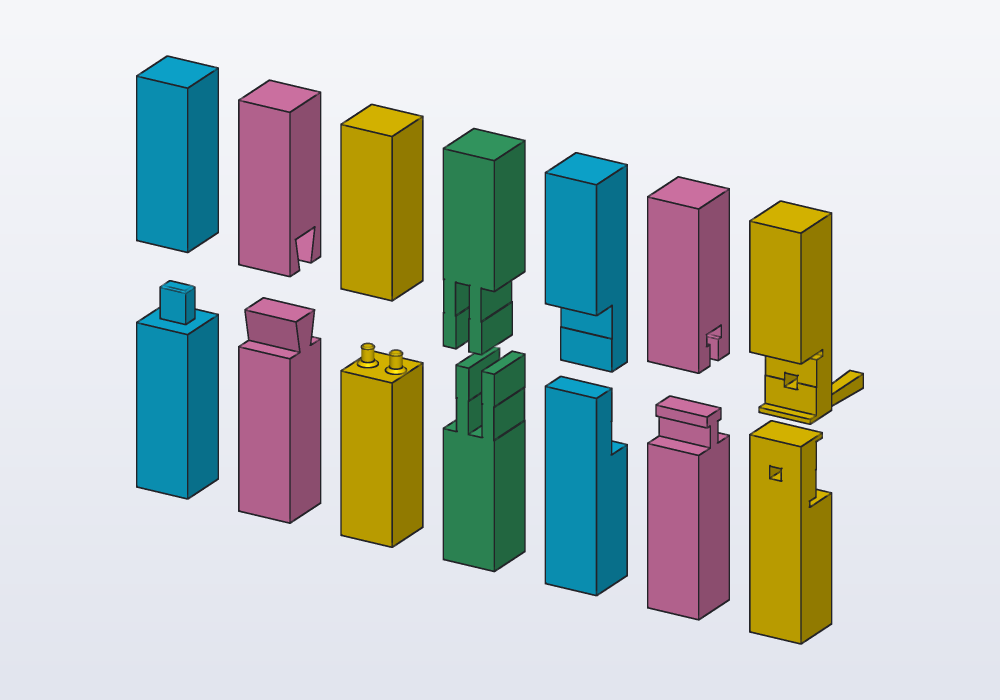
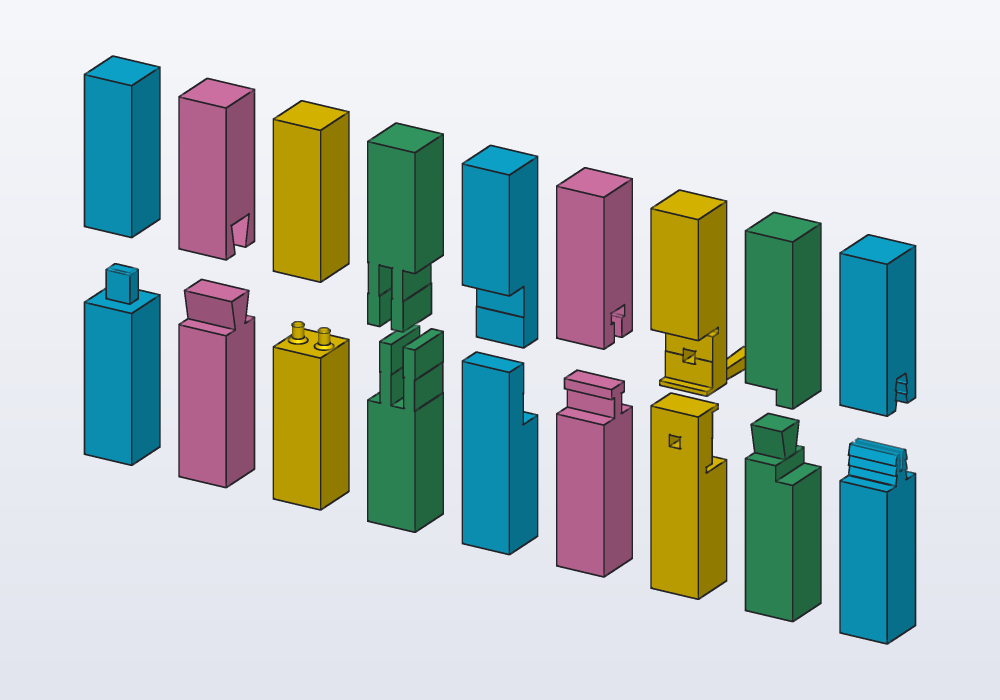
Joints: koshikake, a dovetail over a seat that carries the load, and barbed, a split tenon with barbs driven in for good

diff --git a/docs/cheatsheet.html b/docs/cheatsheet.html
@@ -455,7 +455,7 @@ dd { margin: 0 0 0 12px; color: #4a5a54; }
 </dl></section>
 <section><h2>import joints;</h2><dl>
 <dt>struct Joint(a: Solid, b: Solid, loose: Solid[])</dt><dd>The two pieces of a solid cut along a plane with a joint between them, and the loose parts that lock it (a wedge), if any.</dd>
-<dt>splitJoint(body: Solid, at: Plane, kind: string = "tenon", size: Length = …, length: Length = …, clearance: Length = …, turn: Angle = …, count: int = 2) → Joint</dt><dd>`body` cut along the plane `at` into two pieces that fit together with a joint, `clearance` apart where they meet (0.2 mm suits most FDM printers: see the fits guide). The joint is centred on the cut (the middle of the section), laid along the section's longer side; `turn` turns it further about the plane's normal; `size` sets its scale (by default the square root of the section's area: the width of a square beam) and `length` how far it reaches across the plane (0.6 of the size). `count` is the number of fingers or pins (pins thinner the more there are).  - "tenon": a tenon on a, its mortise in b (hozo); - "dovetail": a tail across the piece, sliding in sideways (ari); - "pins": round pins on a, holes in b; - "fingers": a box joint, fingers of a and b in turn; - "lap": a half lap (ai-gaki), each piece keeping half the thickness; - "kama": a gooseneck, dropping in from the side (kama tsugi); - "kanawa": a half lap with hooks at both ends, locked by a wedge driven through the middle (kanawa tsugi): the wedge is in `loose`.</dd>
+<dt>splitJoint(body: Solid, at: Plane, kind: string = "tenon", size: Length = …, length: Length = …, clearance: Length = …, turn: Angle = …, count: int = 2) → Joint</dt><dd>`body` cut along the plane `at` into two pieces that fit together with a joint, `clearance` apart where they meet (0.2 mm suits most FDM printers: see the fits guide). The joint is centred on the cut (the middle of the section), laid along the section's longer side; `turn` turns it further about the plane's normal; `size` sets its scale (by default the square root of the section's area: the width of a square beam) and `length` how far it reaches across the plane (0.6 of the size). `count` is the number of fingers or pins (pins thinner the more there are).  - "tenon": a tenon on a, its mortise in b (hozo); - "dovetail": a tail across the piece, sliding in sideways (ari); - "pins": round pins on a, holes in b; - "fingers": a box joint, fingers of a and b in turn; - "lap": a half lap (ai-gaki), each piece keeping half the thickness; - "kama": a gooseneck, dropping in from the side (kama tsugi); - "kanawa": a half lap with hooks at both ends, locked by a wedge driven through the middle (kanawa tsugi): the wedge is in `loose`; - "koshikake": a dovetail over a seat that the other piece rests on (koshikake ari tsugi), which carries a load without bending open; - "barbed": a tenon with barbs, split down its middle, driven in: it goes in and does not come out.</dd>
 <dt>struct FlatSplit(a: Solid, b: Solid, keys: Solid[], aPrint: Solid, bPrint: Solid, print: Solid[])</dt><dd>The two halves of a solid cut flat along a plane, each to print lying on its cut face, and the flat keys that join them.</dd>
 <dt>splitFlat(body: Solid, at: Plane, keys: int = 2, kind: string = "bowtie", size: Length = …, depth: Length = …, clearance: Length = …, wall: Length = …) → FlatSplit</dt><dd>`body` cut flat along the plane `at` into two halves, each printed lying on its cut face (nothing stands out of it, so it lies flat on the bed), joined by `keys` flat keys: a pocket in each half's cut face, half the key in each. The keys print lying flat too, and fit their pockets `clearance` apart; glue them in, or leave them dry to take apart.  The keys go where the cut has room for them, at least `wall` from its edges, as far apart as they can be. "bowtie" keys (butterflies, chigiri) keep the halves from sliding and from turning, even one alone; "disc" keys are round, two at least. `size` is a key's length (from the section's size unless given), `depth` how deep it goes into each half. The pockets open with a 0.4 mm chamfer: the first layers spread a little on the bed, and the pocket's mouth is on the bed.</dd>
 <dt>joinParts(a: Solid, b: Solid, at: Plane, kind: string = "tenon", size: Length = …, length: Length = …, clearance: Length = …, turn: Angle = …, count: int = 2) → Joint</dt><dd>Two separate parts joined where one meets the other: `b` ends on the plane `at` (a face of `a`, its normal pointing into `b`), and the joint goes from `b` into `a`: a shelf into an upright, a rail into a post. The joint is centred on `b`'s end and sized by it, as splitJoint does; what reaches past `a`'s far side stops flush with it (a through tenon). Kinds: "tenon", "dovetail" (a sliding dovetail, its housing running out of `a` the way it slides in), "pins", "fingers" (a corner of a box), "lap", "kama" (its housing too runs out of `a`). Gives the two parts changed: `.a` with the hollows, `.b` with what fits in them.</dd>

diff --git a/docs/LANGUAGE.md b/docs/LANGUAGE.md
@@ -180,7 +180,7 @@ This page lists everything in brief; the [guides by topic](GUIDES.md) explain ea
   - face properties: `center`, `normal`, `area`.
   - selectors combine: `edges.parallel(Z) - edges.of(faces.top)`, `faces.top + faces.bottom`, `a & b` (in both).
 - **Built-in libraries** (`import gears;` or `import std.gears;`, selective imports work too):
-  - `joints`: `splitJoint(body, plane, kind: "tenon" | "dovetail" | "pins" | "fingers" | "lap" | "kama" | "kanawa", clearance: 0.2.mm, size:, length:, turn:, count:)` cuts a solid along a plane into two pieces that lock together without screws, as joiners join timber: a tenon, a dovetail sliding in sideways, round pins, a finger joint, a half lap, a gooseneck (kama tsugi), a half lap with hooks locked by a wedge (kanawa tsugi); it gives a `Joint` with `.a` (behind the plane), `.b` (in front of it) and `.loose` (the wedge), the hollows `clearance` larger; the joint sits in the middle of the cut, sized by the square root of the section's area unless `size:` says; `jointKinds` lists the kinds. For a part longer than the printer's bed. `splitFlat(body, plane, keys: 2, kind: "bowtie" | "disc", size:, depth:, clearance: 0.15.mm, wall: 1.6.mm)` cuts it into two halves with flat faces, each to print lying on its cut face, joined by flat keys (butterflies, chigiri) in pockets cut in both faces, placed where the cut has room, as far apart as they can be: a `FlatSplit` with `.a`, `.b`, `.keys` (in place), and laid for printing `.aPrint`, `.bPrint` (on their cut faces, on z = 0) and `.print` (the keys flat in a row). `joinParts(a, b, plane, kind:)` joins two separate parts where `b` ends on a face of `a` (the plane, its normal into `b`): the same joints, from `b` into `a`, sized by `b`'s end, a tenon longer than `a` is thick flush on the far side; joints lie along the cut's longer side unless `turn:` says. `profile.spots(n, margin:)` gives the points it uses: up to n inside a profile in any plane, at least margin from its edges, far apart.
+  - `joints`: `splitJoint(body, plane, kind: "tenon" | "dovetail" | "pins" | "fingers" | "lap" | "kama" | "kanawa" | "koshikake" | "barbed", clearance: 0.2.mm, size:, length:, turn:, count:)` cuts a solid along a plane into two pieces that lock together without screws, as joiners join timber: a tenon, a dovetail sliding in sideways, round pins, a finger joint, a half lap, a gooseneck (kama tsugi), a half lap with hooks locked by a wedge (kanawa tsugi), a dovetail over a seat (koshikake ari tsugi), a barbed tenon split down its middle, driven in for good; it gives a `Joint` with `.a` (behind the plane), `.b` (in front of it) and `.loose` (the wedge), the hollows `clearance` larger; the joint sits in the middle of the cut, sized by the square root of the section's area unless `size:` says; `jointKinds` lists the kinds. For a part longer than the printer's bed. `splitFlat(body, plane, keys: 2, kind: "bowtie" | "disc", size:, depth:, clearance: 0.15.mm, wall: 1.6.mm)` cuts it into two halves with flat faces, each to print lying on its cut face, joined by flat keys (butterflies, chigiri) in pockets cut in both faces, placed where the cut has room, as far apart as they can be: a `FlatSplit` with `.a`, `.b`, `.keys` (in place), and laid for printing `.aPrint`, `.bPrint` (on their cut faces, on z = 0) and `.print` (the keys flat in a row). `joinParts(a, b, plane, kind:)` joins two separate parts where `b` ends on a face of `a` (the plane, its normal into `b`): the same joints, from `b` into `a`, sized by `b`'s end, a tenon longer than `a` is thick flush on the far side; joints lie along the cut's longer side unless `turn:` says. `profile.spots(n, margin:)` gives the points it uses: up to n inside a profile in any plane, at least margin from its edges, far apart.
   - `molds`: `mold(part, plane, wall: 10.mm, keys: 4, sprue: 6.mm, vents: 2, seal: 0.8.mm, clearance: 0.15.mm, pry: true)` a two-part mold to cast the part in (silicone, resin, plaster): a block round it cut along the parting plane (where the part is widest), the part hollow inside, cone keys on one half's parting face and sockets in the other, a seal ridge round the cavity and its groove, a pour hole with a funnel and vents up through the half in front of the plane, notches on two sides to pry it open; a `Mold` with `.a`, `.b` and, laid on their outer faces with the parting face up, `.aPrint`, `.bPrint`.
   - `flex`: `kerf(body, zone, width: 0.8.mm, bridge: 2.mm, pitch: 2.5.mm, length:, along:)` makes the body bend inside the zone (any solid): rows of slots through its thinnest way, each row shifted half a slot, running across the body's length (or `along:` X, Y or Z), so a plate bends end to end and a tube bows.
   - `hardware`: `Screw` sizes `M2`, `M2_5`, `M3`, `M4`, `M5`, `M6`, `M8`, `M10`, `M12`, unified inch `UNC4_40`, `UNC6_32`, `UNC8_32`, `UNC10_24`, `UNC1_4_20` (cameras and tripods), and self-tapping screws for plastic `ST2_2`, `ST2_9`, `ST3_5`, `ST4_2` (their `tap` is the hole they cut their thread in), with `d`, `pitch`, `tap`, `clearance`, `head`, `headHeight`, `key`, `nut`, `nutHeight`, `washer`, `insert`, `insertDepth`; `screw(M3, 20.mm, threaded: false, head: "socket" | "button" | "flat" | "hex" | "pan")` (ISO 4762, 7380, 10642, 4017, 7049; underside of the head on z = 0, a flat head's top), `headOf(M3, "button")` its `d`, `h`, `key`, `nut(M3, threaded: false)`, `washer(M3)`, `hexPrism(acrossFlats, h)`, `squareNut(M3)` (DIN 562, `squareNutSize`, `squareNutHeight`); tools to subtract, top on z = 0 going down: `hole(M3, depth, "clearance" | "tap" | "insert" | "counterbore" | "countersink" | "ribs", head: "socket", chamfer:)` (a counterbore sized for that head; `chamfer:` widens the mouth at 45°, 0.5 mm for ribs unless given; `"ribs"` a hole the screw passes with three ribs along it, 120° apart and one towards -Y, the bottom one on a wall, that the screw cuts its thread into), `nutTrap(M3, depth)`, `squareNutSlot(M3, reach, clearance: 0.2.mm)` (centred on the axis, its middle on z = 0, open towards +X `reach` long, for the nut to slide in from the side); aluminium extrusions of the 20 and 30 series (2020, 3030, B-type slot, typical sizes): `extrusion(20, length)` (standing along Z, centred: a reference part), `extrusionSeries(20)` its sizes (`size`, `slot`, `lip`, `cavity`, `depth`, `bore`, `screw`), `tNut(20, length: 10.mm)` (a T-nut as it sits in a slot facing +Z, the face on z = 0, a tap hole for M5 or M6) and `slotKey(20, length)` (a key under a printed part, down from z = 0 into a slot, to keep it square to the extrusion).

diff --git a/docs/CHEATSHEET.md b/docs/CHEATSHEET.md
@@ -449,7 +449,7 @@ s is a Solid, p a Profile, f a Frame; every value is immutable: operations give 
 ## Library: import joints;
 
 - `struct Joint(a: Solid, b: Solid, loose: Solid[])` — The two pieces of a solid cut along a plane with a joint between them, and the loose parts that lock it (a wedge), if any.
-- `splitJoint(body: Solid, at: Plane, kind: string = "tenon", size: Length = …, length: Length = …, clearance: Length = …, turn: Angle = …, count: int = 2) → Joint` — `body` cut along the plane `at` into two pieces that fit together with a joint, `clearance` apart where they meet (0.2 mm suits most FDM printers: see the fits guide). The joint is centred on the cut (the middle of the section), laid along the section's longer side; `turn` turns it further about the plane's normal; `size` sets its scale (by default the square root of the section's area: the width of a square beam) and `length` how far it reaches across the plane (0.6 of the size). `count` is the number of fingers or pins (pins thinner the more there are).  - "tenon": a tenon on a, its mortise in b (hozo); - "dovetail": a tail across the piece, sliding in sideways (ari); - "pins": round pins on a, holes in b; - "fingers": a box joint, fingers of a and b in turn; - "lap": a half lap (ai-gaki), each piece keeping half the thickness; - "kama": a gooseneck, dropping in from the side (kama tsugi); - "kanawa": a half lap with hooks at both ends, locked by a wedge driven through the middle (kanawa tsugi): the wedge is in `loose`.
+- `splitJoint(body: Solid, at: Plane, kind: string = "tenon", size: Length = …, length: Length = …, clearance: Length = …, turn: Angle = …, count: int = 2) → Joint` — `body` cut along the plane `at` into two pieces that fit together with a joint, `clearance` apart where they meet (0.2 mm suits most FDM printers: see the fits guide). The joint is centred on the cut (the middle of the section), laid along the section's longer side; `turn` turns it further about the plane's normal; `size` sets its scale (by default the square root of the section's area: the width of a square beam) and `length` how far it reaches across the plane (0.6 of the size). `count` is the number of fingers or pins (pins thinner the more there are).  - "tenon": a tenon on a, its mortise in b (hozo); - "dovetail": a tail across the piece, sliding in sideways (ari); - "pins": round pins on a, holes in b; - "fingers": a box joint, fingers of a and b in turn; - "lap": a half lap (ai-gaki), each piece keeping half the thickness; - "kama": a gooseneck, dropping in from the side (kama tsugi); - "kanawa": a half lap with hooks at both ends, locked by a wedge driven through the middle (kanawa tsugi): the wedge is in `loose`; - "koshikake": a dovetail over a seat that the other piece rests on (koshikake ari tsugi), which carries a load without bending open; - "barbed": a tenon with barbs, split down its middle, driven in: it goes in and does not come out.
 - `struct FlatSplit(a: Solid, b: Solid, keys: Solid[], aPrint: Solid, bPrint: Solid, print: Solid[])` — The two halves of a solid cut flat along a plane, each to print lying on its cut face, and the flat keys that join them.
 - `splitFlat(body: Solid, at: Plane, keys: int = 2, kind: string = "bowtie", size: Length = …, depth: Length = …, clearance: Length = …, wall: Length = …) → FlatSplit` — `body` cut flat along the plane `at` into two halves, each printed lying on its cut face (nothing stands out of it, so it lies flat on the bed), joined by `keys` flat keys: a pocket in each half's cut face, half the key in each. The keys print lying flat too, and fit their pockets `clearance` apart; glue them in, or leave them dry to take apart.  The keys go where the cut has room for them, at least `wall` from its edges, as far apart as they can be. "bowtie" keys (butterflies, chigiri) keep the halves from sliding and from turning, even one alone; "disc" keys are round, two at least. `size` is a key's length (from the section's size unless given), `depth` how deep it goes into each half. The pockets open with a 0.4 mm chamfer: the first layers spread a little on the bed, and the pocket's mouth is on the bed.
 - `joinParts(a: Solid, b: Solid, at: Plane, kind: string = "tenon", size: Length = …, length: Length = …, clearance: Length = …, turn: Angle = …, count: int = 2) → Joint` — Two separate parts joined where one meets the other: `b` ends on the plane `at` (a face of `a`, its normal pointing into `b`), and the joint goes from `b` into `a`: a shelf into an upright, a rail into a post. The joint is centred on `b`'s end and sized by it, as splitJoint does; what reaches past `a`'s far side stops flush with it (a through tenon). Kinds: "tenon", "dovetail" (a sliding dovetail, its housing running out of `a` the way it slides in), "pins", "fingers" (a corner of a box), "lap", "kama" (its housing too runs out of `a`). Gives the two parts changed: `.a` with the hollows, `.b` with what fits in them.

diff --git a/docs/guides/joints.md b/docs/guides/joints.md
@@ -1,6 +1,6 @@
 # Joints between parts
 
-A part too long for the printer's bed cut in two pieces that lock together with no screws and no glue, or two parts joined where they meet, as joiners join timber: tenons, dovetails, pins, finger joints, half laps, the gooseneck and the wedged scarf of Japanese carpentry. Or a part cut into two halves with flat faces, each printed lying on its cut face, joined by flat keys. The `joints` library cuts a solid along a plane and shapes both sides of the cut.
+A part too long for the printer's bed cut in two pieces that lock together with no screws and no glue, or two parts joined where they meet, as joiners join timber: tenons, dovetails, pins, finger joints, half laps, the gooseneck, the wedged scarf and the seated dovetail of Japanese carpentry, and a barbed tenon driven in for good. Or a part cut into two halves with flat faces, each printed lying on its cut face, joined by flat keys. The `joints` library cuts a solid along a plane and shapes both sides of the cut.
 
 <!-- render: joints-kinds --from 0.6,-1,0.5 -->
 ```d
@@ -44,9 +44,15 @@ Solid kama() => shown(5);
 
 @part("gold")
 Solid kanawa() => shown(6);
+
+@part("mediumseagreen")
+Solid koshikake() => shown(7);
+
+@part("Sky Pop")
+Solid barbed() => shown(8);
 ```
 
-![Tenon, dovetail, pins, fingers, half lap, gooseneck and wedged scarf, each pulled apart](img/joints-kinds.png)
+![Tenon, dovetail, pins, fingers, half lap, gooseneck, wedged scarf, seated dovetail and barbed tenon, each pulled apart](img/joints-kinds.png)
 
 ## Cutting with a joint
 
@@ -67,6 +73,8 @@ The joint sits in the middle of the cut. Its size follows the cut: by default it
 | `"lap"` | a half lap (ai-gaki): each piece keeps half the thickness | laid on each other | bending one way |
 | `"kama"` | a gooseneck (kama tsugi): a neck and a wider head | dropped in from the side | pulling apart |
 | `"kanawa"` | a half lap with a hook at each end, locked by a wedge (kanawa tsugi) | laid on, then the wedge driven through | pulling, bending and twisting |
+| `"koshikake"` | a dovetail over a seat the other piece rests on (koshikake ari tsugi) | dropped in from the side | pulling apart, and bending: the seat carries the load |
+| `"barbed"` | a tenon with barbs, split down its middle (the barbs close as it goes in) | driven in | pulling out: it does not come out again |
 
 | Argument | What it does |
 |---|---|
@@ -279,7 +287,7 @@ To choose the places yourself, `profile.spots(n, margin:)` gives the points `spl
 
 | Message | What to do |
 |---|---|
-| *the joint kind is one of tenon, dovetail, pins, fingers, lap, kama, kanawa* | a kind from the list |
+| *the joint kind is one of tenon, dovetail, pins, fingers, lap, kama, kanawa, koshikake, barbed* | a kind from the list |
 | one piece comes out in two bodies | the plane cuts through two separate parts of the solid (both jaws of a clip): cut where the section is one piece |
 | the joint is too big for a flat part | the size follows the section's area: give `size:` (and `length:`) |
 | the pieces do not go together | the joint slides the wrong way for how you want to assemble them: `turn: 90.deg` |

diff --git a/docs/GUIDES.md b/docs/GUIDES.md
@@ -78,7 +78,7 @@ Boxes, trays and cases with lids: the `enclosures` library (`roundedBox`, `tray`
 
 [<img src="guides/img/joints-kinds.png" width="420" alt="Joints between parts">](guides/joints.md)
 
-A part too long for the printer's bed cut in two pieces that lock together with no screws and no glue, or two parts joined where they meet, as joiners join timber: tenons, dovetails, pins, finger joints, half laps, the gooseneck and the wedged scarf of Japanese carpentry. Or a part cut into two halves with flat faces, each printed lying on its cut face, joined by flat keys. The `joints` library cuts a solid along a plane and shapes both sides of the cut.
+A part too long for the printer's bed cut in two pieces that lock together with no screws and no glue, or two parts joined where they meet, as joiners join timber: tenons, dovetails, pins, finger joints, half laps, the gooseneck, the wedged scarf and the seated dovetail of Japanese carpentry, and a barbed tenon driven in for good. Or a part cut into two halves with flat faces, each printed lying on its cut face, joined by flat keys. The `joints` library cuts a solid along a plane and shapes both sides of the cut.
 
 ### [Molds for casting](guides/molds.md)
 

diff --git a/docs/AGENTS.md b/docs/AGENTS.md
@@ -12,12 +12,12 @@ reference first and follow the rules below.
 
 ## Setup and updates
 
-This text was made by hcad 0.3.1 (docs stamp `0.3.1-1f4248fc`). Before the first
+This text was made by hcad 0.3.1 (docs stamp `0.3.1-833da1d6`). Before the first
 model of a session, run `hcad docs --stamp` (`hcad` may be a full path, or the
 AppImage followed by the word `hcad`; with the MCP server, hcad_docs with
 format stamp):
 
-- **It prints `0.3.1-1f4248fc`:** this text is up to date.
+- **It prints `0.3.1-833da1d6`:** this text is up to date.
 - **It prints something else:** hackerscad was updated and this text is
   older or newer than it. Installed as a skill, refresh it in place:
   `hcad docs --skill` into this SKILL.md, `hcad docs` into the llms-full.txt

diff --git a/docs/SKILL.md b/docs/SKILL.md
@@ -17,12 +17,12 @@ reference first and follow the rules below.
 
 ## Setup and updates
 
-This text was made by hcad 0.3.1 (docs stamp `0.3.1-1f4248fc`). Before the first
+This text was made by hcad 0.3.1 (docs stamp `0.3.1-833da1d6`). Before the first
 model of a session, run `hcad docs --stamp` (`hcad` may be a full path, or the
 AppImage followed by the word `hcad`; with the MCP server, hcad_docs with
 format stamp):
 
-- **It prints `0.3.1-1f4248fc`:** this text is up to date.
+- **It prints `0.3.1-833da1d6`:** this text is up to date.
 - **It prints something else:** hackerscad was updated and this text is
   older or newer than it. Installed as a skill, refresh it in place:
   `hcad docs --skill` into this SKILL.md, `hcad docs` into the llms-full.txt
